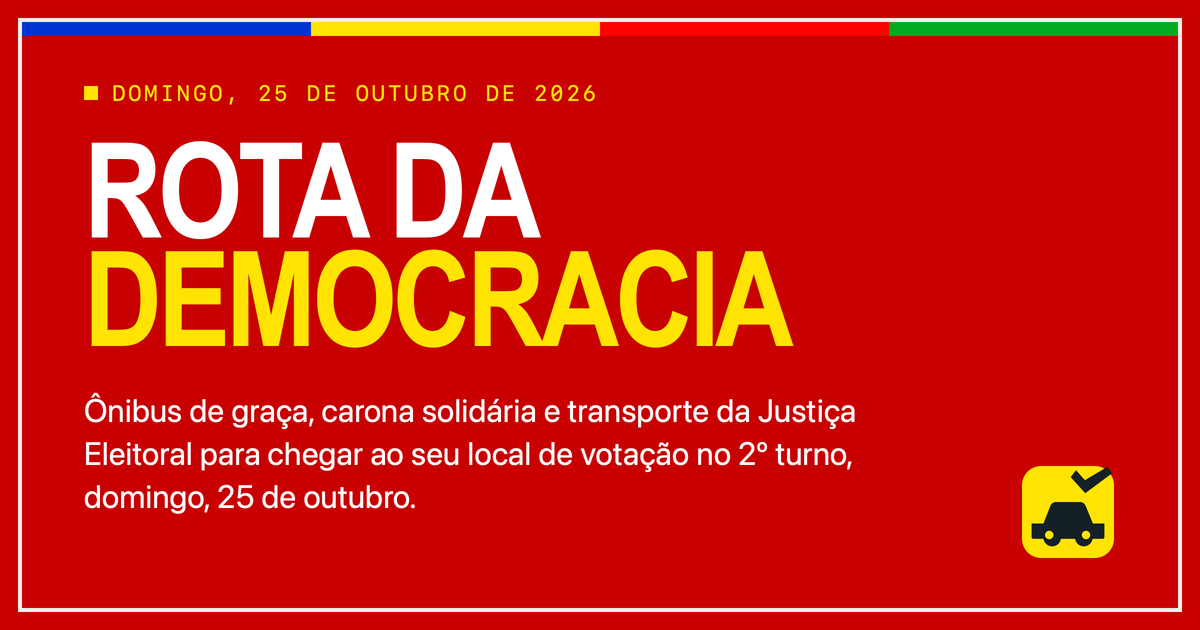
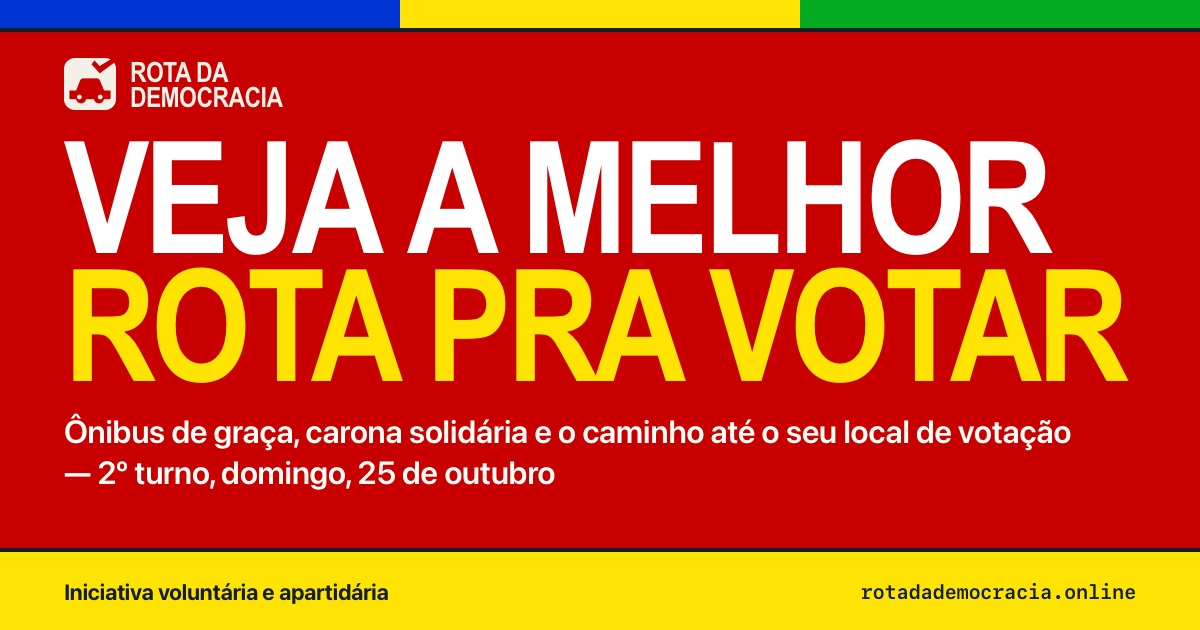
feat(ui): new share image for rotadademocracia.online

diff --git a/design/og.html b/design/og.html
@@ -6,6 +6,7 @@
   <style>
     :root {
       --paper: #f3f0e8;
+      --paper-2: #fffdf8;
       --ink: #142026;
       --red: #fd0200;
       --field: #c80000;
@@ -40,42 +41,41 @@
     .stripe {
       flex: none;
       display: grid;
-      grid-template-columns: repeat(4, 1fr);
-      height: 22px;
+      grid-template-columns: repeat(3, 1fr);
+      height: 32px;
       background: var(--ink);
       border-bottom: 4px solid var(--ink);
     }
 
     .stripe span:nth-child(1) { background: var(--blue); }
     .stripe span:nth-child(2) { background: var(--yellow); }
-    .stripe span:nth-child(3) { background: var(--red); }
-    .stripe span:nth-child(4) { background: var(--green); }
+    .stripe span:nth-child(3) { background: var(--green); }
 
     .body {
       flex: 1;
       display: flex;
       flex-direction: column;
-      justify-content: center;
-      padding: 18px 68px 8px;
+      justify-content: flex-start;
+      padding: 26px 64px 0;
     }
 
     .brand {
       display: flex;
       align-items: center;
-      gap: 16px;
+      gap: 14px;
     }
 
     .mark {
       flex: none;
-      width: 58px;
-      height: 58px;
+      width: 52px;
+      height: 52px;
       display: block;
     }
 
     .name {
       font-family: var(--font-display);
       font-weight: 700;
-      font-size: 36px;
+      font-size: 28px;
       line-height: 0.88;
       letter-spacing: -0.02em;
       text-transform: uppercase;
@@ -83,12 +83,12 @@
     }
 
     h1 {
-      margin-top: 28px;
+      margin-top: 22px;
       font-family: var(--font-display);
       font-weight: 700;
-      font-size: 108px;
-      line-height: 0.88;
-      letter-spacing: -0.03em;
+      font-size: 156px;
+      line-height: 0.82;
+      letter-spacing: -0.028em;
       text-transform: uppercase;
       color: #fff;
     }
@@ -98,14 +98,14 @@
     h1 .accent { color: var(--yellow); }
 
     .secondary {
-      margin-top: 26px;
-      max-width: 920px;
+      margin-top: 22px;
+      max-width: 1072px;
       font-family: var(--font-body);
       font-size: 32px;
       font-weight: 600;
       line-height: 1.28;
-      letter-spacing: -0.011em;
-      color: var(--paper);
+      letter-spacing: -0.014em;
+      color: var(--paper-2);
     }
 
     .footer {
@@ -114,8 +114,8 @@
       align-items: center;
       justify-content: space-between;
       gap: 28px;
-      height: 96px;
-      padding: 0 68px 14px;
+      height: 82px;
+      padding: 0 64px;
       background: var(--yellow);
       color: var(--ink);
       border-top: 4px solid var(--ink);
@@ -123,15 +123,15 @@
 
     .affiliation {
       font-family: var(--font-body);
-      font-size: 24px;
+      font-size: 22px;
       font-weight: 700;
       line-height: 1.15;
-      letter-spacing: -0.01em;
+      letter-spacing: -0.011em;
     }
 
     .url {
       font-family: var(--font-mono);
-      font-size: 22px;
+      font-size: 20px;
       font-weight: 600;
       line-height: 1.15;
       letter-spacing: -0.02em;
@@ -141,7 +141,7 @@
 </head>
 <body>
   <div class="sheet">
-    <div class="stripe" aria-hidden="true"><span></span><span></span><span></span><span></span></div>
+    <div class="stripe" aria-hidden="true"><span></span><span></span><span></span></div>
     <div class="body">
       <div class="brand">
         <svg class="mark" viewBox="0 0 48 48" aria-hidden="true">
@@ -152,14 +152,14 @@
         <p class="name">Rota da<br>Democracia</p>
       </div>
       <h1>
-        <span>Ônibus de graça</span>
-        <span class="accent">no dia da eleição</span>
+        <span>Veja a melhor</span>
+        <span class="accent">rota pra votar</span>
       </h1>
-      <p class="secondary">Carona solidária e como chegar ao seu local de votação<br>— 2º turno, domingo, 25 de outubro</p>
+      <p class="secondary">Ônibus de graça, carona solidária e o caminho até o seu local de votação<br>— 2º turno, domingo, 25 de outubro</p>
     </div>
     <footer class="footer">
       <p class="affiliation">Iniciativa voluntária e apartidária</p>
-      <p class="url">rota-da-democracia.joselito.workers.dev</p>
+      <p class="url">rotadademocracia.online</p>
     </footer>
   </div>
 </body>

diff --git a/public/index.html b/public/index.html
@@ -7,10 +7,12 @@
   <meta name="description" content="Ônibus de graça, carona solidária e transporte da Justiça Eleitoral para chegar ao seu local de votação no 2º turno, domingo, 25 de outubro.">
   <meta name="theme-color" content="#ffe403">
   <meta property="og:title" content="Rota da Democracia">
-  <meta property="og:description" content="Ônibus de graça, carona solidária e transporte da Justiça Eleitoral para chegar ao seu local de votação no 2º turno, domingo, 25 de outubro.">
+  <meta property="og:description" content="Ônibus de graça, carona solidária e o caminho até o seu local de votação — 2º turno, domingo, 25 de outubro">
   <meta property="og:locale" content="pt_BR">
   <meta property="og:type" content="website">
-  <meta property="og:image" content="/assets/og.png">
+  <meta property="og:image" content="https://rotadademocracia.online/assets/og.png">
+  <meta name="twitter:card" content="summary_large_image">
+  <meta name="twitter:image" content="https://rotadademocracia.online/assets/og.png">
   <meta property="og:image:width" content="1200">
   <meta property="og:image:height" content="630">
   <link rel="icon" href="/assets/favicon.svg" type="image/svg+xml">

diff --git a/public/faq.html b/public/faq.html
@@ -7,10 +7,12 @@
   <meta name="description" content="Perguntas e respostas sobre carona solidária, transporte gratuito e como votar no 2º turno de 25 de outubro de 2026.">
   <meta name="theme-color" content="#ffe403">
   <meta property="og:title" content="Dúvidas frequentes · Rota da Democracia">
-  <meta property="og:description" content="Perguntas e respostas sobre carona solidária, transporte gratuito e como votar.">
+  <meta property="og:description" content="Ônibus de graça, carona solidária e o caminho até o seu local de votação — 2º turno, domingo, 25 de outubro">
   <meta property="og:locale" content="pt_BR">
   <meta property="og:type" content="website">
-  <meta property="og:image" content="/assets/og.png">
+  <meta property="og:image" content="https://rotadademocracia.online/assets/og.png">
+  <meta name="twitter:card" content="summary_large_image">
+  <meta name="twitter:image" content="https://rotadademocracia.online/assets/og.png">
   <meta property="og:image:width" content="1200">
   <meta property="og:image:height" content="630">
   <link rel="icon" href="/assets/favicon.svg" type="image/svg+xml">

diff --git a/public/buscar.html b/public/buscar.html
@@ -7,10 +7,12 @@
   <meta name="description" content="Encontre uma carona gratuita até o seu local de votação no domingo, 25 de outubro de 2026.">
   <meta name="theme-color" content="#ffe403">
   <meta property="og:title" content="Preciso de carona · Rota da Democracia">
-  <meta property="og:description" content="Encontre uma carona gratuita até o seu local de votação no domingo, 25 de outubro de 2026.">
+  <meta property="og:description" content="Ônibus de graça, carona solidária e o caminho até o seu local de votação — 2º turno, domingo, 25 de outubro">
   <meta property="og:locale" content="pt_BR">
   <meta property="og:type" content="website">
-  <meta property="og:image" content="/assets/og.png">
+  <meta property="og:image" content="https://rotadademocracia.online/assets/og.png">
+  <meta name="twitter:card" content="summary_large_image">
+  <meta name="twitter:image" content="https://rotadademocracia.online/assets/og.png">
   <meta property="og:image:width" content="1200">
   <meta property="og:image:height" content="630">
   <link rel="icon" href="/assets/favicon.svg" type="image/svg+xml">

diff --git a/public/oferecer.html b/public/oferecer.html
@@ -7,10 +7,12 @@
   <meta name="description" content="Ofereça uma carona gratuita até um local de votação no domingo, 25 de outubro de 2026.">
   <meta name="theme-color" content="#ffe403">
   <meta property="og:title" content="Posso dar carona · Rota da Democracia">
-  <meta property="og:description" content="Ofereça uma carona gratuita até um local de votação no domingo, 25 de outubro de 2026.">
+  <meta property="og:description" content="Ônibus de graça, carona solidária e o caminho até o seu local de votação — 2º turno, domingo, 25 de outubro">
   <meta property="og:locale" content="pt_BR">
   <meta property="og:type" content="website">
-  <meta property="og:image" content="/assets/og.png">
+  <meta property="og:image" content="https://rotadademocracia.online/assets/og.png">
+  <meta name="twitter:card" content="summary_large_image">
+  <meta name="twitter:image" content="https://rotadademocracia.online/assets/og.png">
   <meta property="og:image:width" content="1200">
   <meta property="og:image:height" content="630">
   <link rel="icon" href="/assets/favicon.svg" type="image/svg+xml">

diff --git a/public/grupos.html b/public/grupos.html
@@ -7,10 +7,12 @@
   <meta name="description" content="Encontre ou cadastre grupos de WhatsApp de carona solidária para votar no 2º turno.">
   <meta name="theme-color" content="#ffe403">
   <meta property="og:title" content="Grupos de carona · Rota da Democracia">
-  <meta property="og:description" content="Encontre ou cadastre grupos de WhatsApp de carona solidária para votar no 2º turno.">
+  <meta property="og:description" content="Ônibus de graça, carona solidária e o caminho até o seu local de votação — 2º turno, domingo, 25 de outubro">
   <meta property="og:locale" content="pt_BR">
   <meta property="og:type" content="website">
-  <meta property="og:image" content="/assets/og.png">
+  <meta property="og:image" content="https://rotadademocracia.online/assets/og.png">
+  <meta name="twitter:card" content="summary_large_image">
+  <meta name="twitter:image" content="https://rotadademocracia.online/assets/og.png">
   <meta property="og:image:width" content="1200">
   <meta property="og:image:height" content="630">
   <link rel="icon" href="/assets/favicon.svg" type="image/svg+xml">

diff --git a/public/como-chegar.html b/public/como-chegar.html
@@ -7,10 +7,12 @@
   <meta name="description" content="Ache o endereço do seu local de votação e abra a rota de transporte público.">
   <meta name="theme-color" content="#ffe403">
   <meta property="og:title" content="Como chego pra votar · Rota da Democracia">
-  <meta property="og:description" content="Ache o endereço do seu local de votação e abra a rota de transporte público.">
+  <meta property="og:description" content="Ônibus de graça, carona solidária e o caminho até o seu local de votação — 2º turno, domingo, 25 de outubro">
   <meta property="og:locale" content="pt_BR">
   <meta property="og:type" content="website">
-  <meta property="og:image" content="/assets/og.png">
+  <meta property="og:image" content="https://rotadademocracia.online/assets/og.png">
+  <meta name="twitter:card" content="summary_large_image">
+  <meta name="twitter:image" content="https://rotadademocracia.online/assets/og.png">
   <meta property="og:image:width" content="1200">
   <meta property="og:image:height" content="630">
   <link rel="icon" href="/assets/favicon.svg" type="image/svg+xml">

diff --git a/public/sobre.html b/public/sobre.html
@@ -7,10 +7,12 @@
   <meta name="description" content="Site voluntário e sem partido para carona gratuita e rota até o local de votação.">
   <meta name="theme-color" content="#ffe403">
   <meta property="og:title" content="Sobre · Rota da Democracia">
-  <meta property="og:description" content="Site voluntário e sem partido para carona gratuita e rota até o local de votação.">
+  <meta property="og:description" content="Ônibus de graça, carona solidária e o caminho até o seu local de votação — 2º turno, domingo, 25 de outubro">
   <meta property="og:locale" content="pt_BR">
   <meta property="og:type" content="website">
-  <meta property="og:image" content="/assets/og.png">
+  <meta property="og:image" content="https://rotadademocracia.online/assets/og.png">
+  <meta name="twitter:card" content="summary_large_image">
+  <meta name="twitter:image" content="https://rotadademocracia.online/assets/og.png">
   <meta property="og:image:width" content="1200">
   <meta property="og:image:height" content="630">
   <link rel="icon" href="/assets/favicon.svg" type="image/svg+xml">

diff --git a/public/privacidade.html b/public/privacidade.html
@@ -7,10 +7,12 @@
   <meta name="description" content="Quais dados a carona guarda, o que não guarda, e quando tudo é apagado.">
   <meta name="theme-color" content="#ffe403">
   <meta property="og:title" content="Privacidade · Rota da Democracia">
-  <meta property="og:description" content="Quais dados a carona guarda, o que não guarda, e quando tudo é apagado.">
+  <meta property="og:description" content="Ônibus de graça, carona solidária e o caminho até o seu local de votação — 2º turno, domingo, 25 de outubro">
   <meta property="og:locale" content="pt_BR">
   <meta property="og:type" content="website">
-  <meta property="og:image" content="/assets/og.png">
+  <meta property="og:image" content="https://rotadademocracia.online/assets/og.png">
+  <meta name="twitter:card" content="summary_large_image">
+  <meta name="twitter:image" content="https://rotadademocracia.online/assets/og.png">
   <meta property="og:image:width" content="1200">
   <meta property="og:image:height" content="630">
   <link rel="icon" href="/assets/favicon.svg" type="image/svg+xml">

diff --git a/public/cadastrar-grupo.html b/public/cadastrar-grupo.html
@@ -7,10 +7,12 @@
   <meta name="description" content="Cadastre um grupo de WhatsApp de carona solidária da sua região.">
   <meta name="theme-color" content="#ffe403">
   <meta property="og:title" content="Cadastrar grupo · Rota da Democracia">
-  <meta property="og:description" content="Cadastre um grupo de WhatsApp de carona solidária da sua região.">
+  <meta property="og:description" content="Ônibus de graça, carona solidária e o caminho até o seu local de votação — 2º turno, domingo, 25 de outubro">
   <meta property="og:locale" content="pt_BR">
   <meta property="og:type" content="website">
-  <meta property="og:image" content="/assets/og.png">
+  <meta property="og:image" content="https://rotadademocracia.online/assets/og.png">
+  <meta name="twitter:card" content="summary_large_image">
+  <meta name="twitter:image" content="https://rotadademocracia.online/assets/og.png">
   <meta property="og:image:width" content="1200">
   <meta property="og:image:height" content="630">
   <link rel="icon" href="/assets/favicon.svg" type="image/svg+xml">

diff --git a/public/gerenciar.html b/public/gerenciar.html
@@ -7,10 +7,12 @@
   <meta name="description" content="Edite ou cancele a carona que você publicou. O link é pessoal.">
   <meta name="theme-color" content="#ffe403">
   <meta property="og:title" content="Sua oferta · Rota da Democracia">
-  <meta property="og:description" content="Edite ou cancele a carona que você publicou. O link é pessoal.">
+  <meta property="og:description" content="Ônibus de graça, carona solidária e o caminho até o seu local de votação — 2º turno, domingo, 25 de outubro">
   <meta property="og:locale" content="pt_BR">
   <meta property="og:type" content="website">
-  <meta property="og:image" content="/assets/og.png">
+  <meta property="og:image" content="https://rotadademocracia.online/assets/og.png">
+  <meta name="twitter:card" content="summary_large_image">
+  <meta name="twitter:image" content="https://rotadademocracia.online/assets/og.png">
   <meta property="og:image:width" content="1200">
   <meta property="og:image:height" content="630">
   <link rel="icon" href="/assets/favicon.svg" type="image/svg+xml">

diff --git a/public/gerenciar-grupo.html b/public/gerenciar-grupo.html
@@ -7,10 +7,12 @@
   <meta name="description" content="Gerencie o grupo de carona que você cadastrou.">
   <meta name="theme-color" content="#ffe403">
   <meta property="og:title" content="Seu grupo · Rota da Democracia">
-  <meta property="og:description" content="Gerencie o grupo de carona que você cadastrou.">
+  <meta property="og:description" content="Ônibus de graça, carona solidária e o caminho até o seu local de votação — 2º turno, domingo, 25 de outubro">
   <meta property="og:locale" content="pt_BR">
   <meta property="og:type" content="website">
-  <meta property="og:image" content="/assets/og.png">
+  <meta property="og:image" content="https://rotadademocracia.online/assets/og.png">
+  <meta name="twitter:card" content="summary_large_image">
+  <meta name="twitter:image" content="https://rotadademocracia.online/assets/og.png">
   <meta property="og:image:width" content="1200">
   <meta property="og:image:height" content="630">
   <link rel="icon" href="/assets/favicon.svg" type="image/svg+xml">
